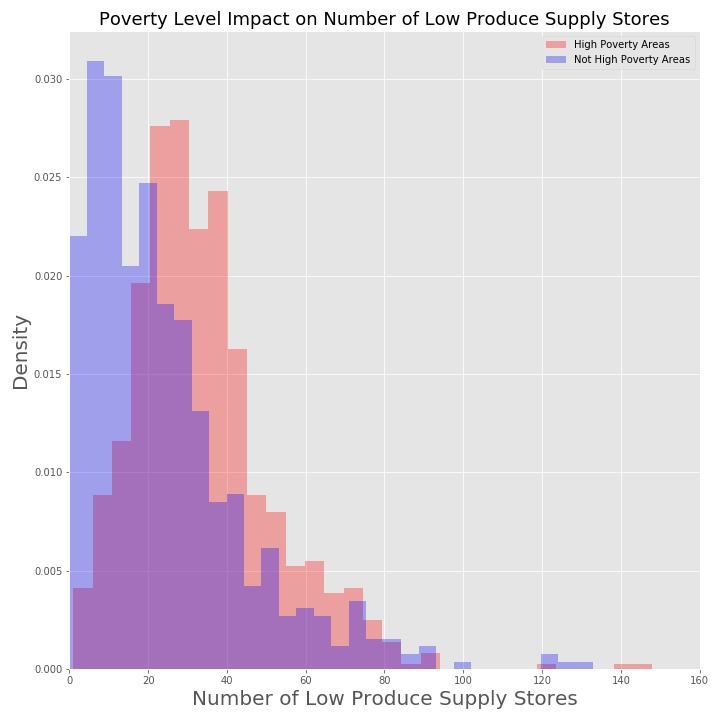
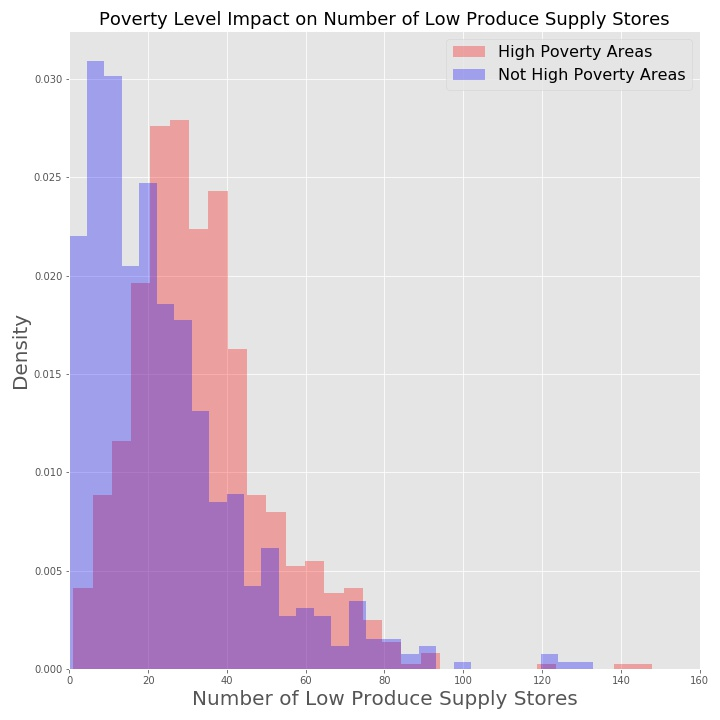
resizing figures

Changed region(s): [[0.6111, 0.0611, 0.9472, 0.1222]]

diff --git a/README.md b/README.md
@@ -40,13 +40,15 @@ The raw dataset had 1336 entries and 17 columns.
 **Null Values:**
 There were 13 null values within the raw dataset, 11 of which corresponded to the non-residential areas within Philadelphia. These null values were excluded, as I was interested in the areas with residents. 
 
-### **Initial Exploration: Total LPSS**
+### **Initial Exploration: Total Low Produce Supply Stores (LPSS)**
 
 When exploring the data, I quickly became interested in the relationship between poverty levels and the number of low produce supply stores.  It appeared that higher poverty areas could be more likely to have a greater number of low produce supply stores (i.e. corner stores, gas stations).  
 
 <p align="center">
     <img src="images/scatter_tot_lpss.jpeg" width='450'/>
 </p>
+
+
 
 <p align="center">
     <img src="images/pdf_tot_lpss_by_poverty.jpeg" width='450'/>
@@ -60,10 +62,6 @@ In further exploration, I thought that total LPSS might follow a Poisson distrib
     * Mean(High Poverty Areas) = 33.9 lpss
     * Mean(Not High Poverty Areas) = 24.4 lpss
    
-
-<p align="center">
-    <img src="images/poisson_modeling_lpss_sidebyside.jpeg" width='600'/>
-</p>
 
 <p align="center">
     <img src="images/poisson_cdfs.jpeg" width='450'/>
